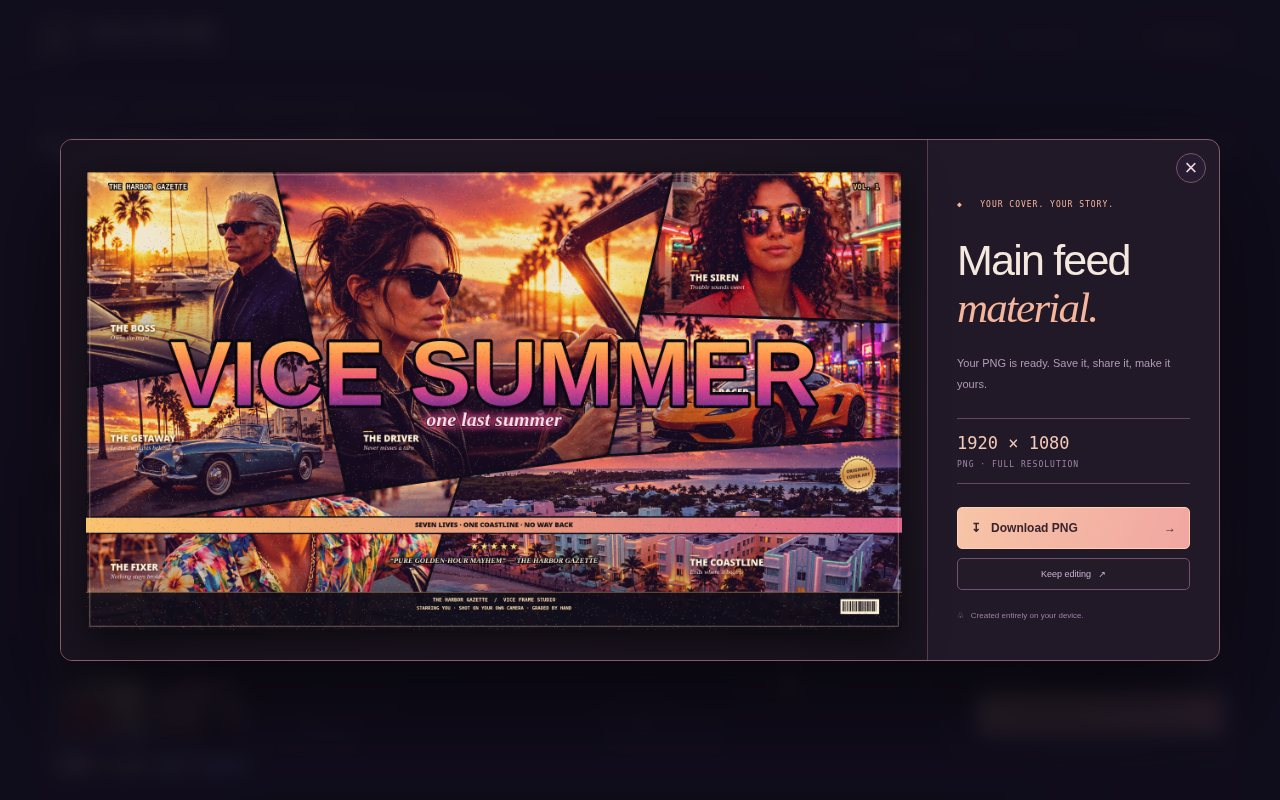
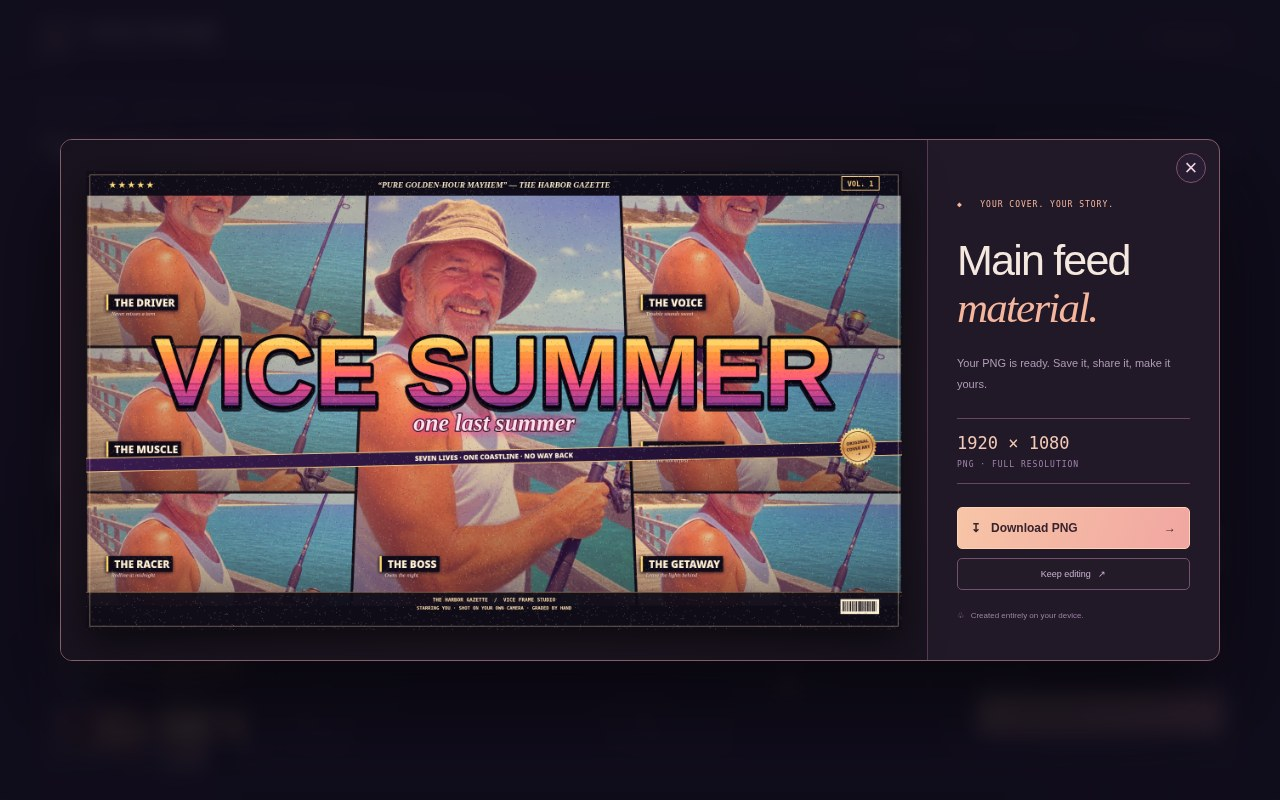
VICE FRAME v9: Showcase mosaic template, striped sunset title, top press strip, role chips, hotter golden-hour grade

diff --git a/app/src/cover.js b/app/src/cover.js
@@ -75,7 +75,7 @@ function gradePhoto(ctx, width, height, grade, strength, halftone, unit) {
         const value = pixels[p + channel];
         const saturated = luma + (value - luma) * grade.saturation;
         const contrasted = clamp((saturated - 127.5) * grade.contrast + 127.5, 0, 255);
-        pixels[p + channel] = mix(value, mix(contrasted, color[channel], .28), strength);
+        pixels[p + channel] = mix(value, mix(contrasted, color[channel], .38), strength);
       }
     }
   }
@@ -146,14 +146,17 @@ function frameCaptions(ctx, state, width, height, unit) {
     ctx.shadowColor = '#140c1c';
     ctx.shadowBlur = 8 * unit;
     ctx.shadowOffsetY = 2 * unit;
+    ctx.font = `900 ${24 * unit}px system-ui, sans-serif`;
+    const roleWidth = ctx.measureText(role).width;
+    ctx.fillStyle = 'rgba(13,9,22,.92)';
+    ctx.fillRect(x - 10 * unit, y - 28 * unit, roleWidth + 26 * unit, 37 * unit);
     ctx.fillStyle = '#ffd76a';
-    ctx.fillRect(x, y - 25 * unit, 22 * unit, 2 * unit);
-    ctx.font = `900 ${22 * unit}px system-ui, sans-serif`;
+    ctx.fillRect(x - 10 * unit, y - 28 * unit, 5 * unit, 37 * unit);
     ctx.fillStyle = cream;
-    ctx.fillText(role, x, y, limit);
-    ctx.font = `italic ${15 * unit}px Georgia, serif`;
+    ctx.fillText(role, x + 9 * unit, y, limit);
+    ctx.font = `italic ${13 * unit}px Georgia, serif`;
     ctx.fillStyle = '#ffddce';
-    ctx.fillText(sub, x, y + 19 * unit, limit);
+    ctx.fillText(sub, x + 2 * unit, y + 21 * unit, limit);
     ctx.restore();
   });
 }
@@ -169,18 +172,44 @@ function outline(ctx, text, x, y, width, weight, paint) {
 
 function title(ctx, state, width, height, unit) {
   const y = height * .51;
-  const size = Math.min(width * .162, height * .20);
-  const colors = grades.golden.colors;
+  const size = Math.min(width * .175, height * .21);
+  const stripes = ctx.canvas.ownerDocument.createElement('canvas');
+  stripes.width = 4;
+  stripes.height = Math.max(2, Math.round(size * .94));
+  const sctx = stripes.getContext('2d');
+  const bandColors = ['#fff3b0','#ffd76a','#ff9a3d','#ff7a4d','#ff5e7a','#e5488c','#a03d8f','#5f2d91'];
+  const bands = 14;
+  for (let i = 0; i < bands; i++) {
+    const position = i / (bands - 1) * (bandColors.length - 1);
+    const index = Math.min(Math.floor(position), bandColors.length - 2);
+    const from = rgb(bandColors[index]);
+    const to = rgb(bandColors[index + 1]);
+    const [r, g, b] = from.map((value, channel) => Math.round(mix(value, to[channel], position - index)));
+    sctx.fillStyle = `rgb(${r},${g},${b})`;
+    sctx.fillRect(0, i * stripes.height / bands, 4, Math.ceil(stripes.height / bands));
+    if (i >= 8) {
+      sctx.fillStyle = 'rgba(20,8,32,.55)';
+      sctx.fillRect(0, (i + 1) * stripes.height / bands - 2, 4, 2);
+    }
+  }
+
   ctx.save();
   ctx.textAlign = 'center';
+  ctx.shadowColor = 'rgba(8,4,16,.85)';
+  ctx.shadowBlur = 0;
+  ctx.shadowOffsetY = 7 * unit;
+  ctx.translate(0, y - size * .82);
+  const pattern = ctx.createPattern(stripes, 'repeat');
   ctx.font = `700 ${size}px ViceDisplay, Impact, sans-serif`;
-  outline(ctx, state.headline, width / 2, y, width * .84, 14 * unit,
-    gradient(ctx, 0, y - size * .82, 0, y + size * .10, colors));
+  outline(ctx, state.headline, width / 2, size * .82, width * .86, 16 * unit, pattern);
+  ctx.restore();
 
-  ctx.font = `italic 600 ${47 * unit}px 'Brush Script MT', 'Segoe Script', cursive`;
+  ctx.save();
+  ctx.textAlign = 'center';
+  ctx.font = `italic 600 ${56 * unit}px 'Brush Script MT', 'Segoe Script', cursive`;
   ctx.shadowColor = '#ff438f';
-  ctx.shadowBlur = 17 * unit;
-  outline(ctx, state.tagline, width / 2, y + 49 * unit, width * .64, 4 * unit, '#ffe2ee');
+  ctx.shadowBlur = 22 * unit;
+  outline(ctx, state.tagline, width / 2, y + 60 * unit, width * .66, 5 * unit, '#ffe2ee');
   ctx.restore();
 }
 
@@ -230,31 +259,50 @@ function barcode(ctx, headline, x, y, unit) {
 
 function coverLines(ctx, state, width, height, unit) {
   const margin = width * .028;
+  ctx.fillStyle = '#100d19f5';
+  ctx.fillRect(0, 0, width, 58 * unit);
+
   ctx.save();
-  ctx.font = `800 ${17 * unit}px ui-monospace, monospace`;
-  outline(ctx, state.paper.toUpperCase(), margin, 43 * unit, width * .6, 5 * unit, cream);
-  ctx.textAlign = 'right';
-  outline(ctx, 'VOL. 1', width - margin, 43 * unit, width * .15, 5 * unit, '#ffcf83');
+  ctx.textAlign = 'left';
+  ctx.font = `800 ${19 * unit}px system-ui, sans-serif`;
+  ctx.fillStyle = '#ffdc7b';
+  ctx.fillText('★ ★ ★ ★ ★', margin, 39 * unit);
   ctx.restore();
 
-  const ribbonY = height * .755;
-  const ribbonHeight = 36 * unit;
-  ctx.fillStyle = gradient(ctx, 0, 0, width, 0, ['#fbc36f', '#ec9d7b', '#dd678f']);
-  ctx.fillRect(0, ribbonY, width, ribbonHeight);
-  ctx.fillStyle = ink;
-  ctx.fillRect(0, ribbonY - 3 * unit, width, 3 * unit);
-  ctx.fillRect(0, ribbonY + ribbonHeight, width, 3 * unit);
   ctx.save();
   ctx.textAlign = 'center';
-  ctx.font = `900 ${16 * unit}px system-ui, sans-serif`;
-  ctx.fillText(state.strip, width / 2, ribbonY + 23 * unit, width * .91);
-  ctx.font = `700 ${20 * unit}px system-ui, sans-serif`;
-  outline(ctx, '★ ★ ★ ★ ★', width / 2, height * .824, width * .44, 3 * unit, '#ffdc7b');
-  ctx.font = `italic 700 ${17 * unit}px Georgia, serif`;
-  outline(ctx, state.quote, width / 2, height * .854, width * .47, 4 * unit, cream);
+  ctx.font = `italic 700 ${19 * unit}px Georgia, serif`;
+  outline(ctx, state.quote, width / 2, 39 * unit, width * .54, 4 * unit, cream);
   ctx.restore();
 
-  seal(ctx, width - margin - 50 * unit, height * .66, unit);
+  ctx.save();
+  ctx.strokeStyle = '#ffcf83';
+  ctx.lineWidth = 2 * unit;
+  ctx.strokeRect(width - margin - 88 * unit, 13 * unit, 88 * unit, 32 * unit);
+  ctx.textAlign = 'center';
+  ctx.font = `800 ${17 * unit}px ui-monospace, monospace`;
+  outline(ctx, 'VOL. 1', width - margin - 44 * unit, 36 * unit, 88 * unit, 3 * unit, '#ffcf83');
+  ctx.restore();
+
+  const titleSize = Math.min(width * .175, height * .21);
+  const ribbonY = height * .51 + titleSize * .46;
+  const ribbonHeight = 34 * unit;
+  ctx.save();
+  ctx.translate(width / 2, ribbonY + ribbonHeight / 2);
+  ctx.rotate(-.021);
+  ctx.translate(-width / 2, -(ribbonY + ribbonHeight / 2));
+  ctx.fillStyle = gradient(ctx, 0, 0, width, 0, ['#3a1c50', '#1c0e2e']);
+  ctx.fillRect(0, ribbonY, width, ribbonHeight);
+  ctx.fillStyle = '#ffcf83';
+  ctx.fillRect(0, ribbonY, width, 2 * unit);
+  ctx.fillRect(0, ribbonY + ribbonHeight - 2 * unit, width, 2 * unit);
+  ctx.textAlign = 'center';
+  ctx.font = `900 ${16 * unit}px system-ui, sans-serif`;
+  ctx.fillStyle = cream;
+  ctx.fillText(state.strip, width / 2, ribbonY + 23 * unit, width * .91);
+  ctx.restore();
+
+  seal(ctx, width - margin - 50 * unit, height * .60, unit);
   const foot = height * .917;
   ctx.fillStyle = '#100d19ef';
   ctx.fillRect(0, foot, width, height - foot);
@@ -288,6 +336,20 @@ function filmGrain(ctx, width, height, unit, opacity) {
   ctx.restore();
 }
 
+function glowVignette(ctx, width, height) {
+  const warm = ctx.createRadialGradient(width * .16, height * .04, 0, width * .16, height * .04, width * .55);
+  warm.addColorStop(0, 'rgba(255,166,77,.13)');
+  warm.addColorStop(1, 'rgba(255,166,77,0)');
+  ctx.fillStyle = warm;
+  ctx.fillRect(0, 0, width, height);
+
+  const shade = ctx.createRadialGradient(width * .5, height * .44, Math.min(width, height) * .38, width * .5, height * .44, Math.max(width, height) * .78);
+  shade.addColorStop(0, 'rgba(14,6,24,0)');
+  shade.addColorStop(1, 'rgba(14,6,24,.36)');
+  ctx.fillStyle = shade;
+  ctx.fillRect(0, 0, width, height);
+}
+
 export function drawCover(ctx, state, assets) {
   const { width, height } = ctx.canvas;
   const unit = Math.min(width, height) / 1080;
@@ -297,6 +359,7 @@ export function drawCover(ctx, state, assets) {
   ctx.fillStyle = ink;
   ctx.fillRect(0, 0, width, height);
   drawFrames(ctx, state, assets, width, height, unit, grade);
+  glowVignette(ctx, width, height);
   frameCaptions(ctx, state, width, height, unit);
   title(ctx, state, width, height, unit);
   coverLines(ctx, state, width, height, unit);

diff --git a/app/src/templates.js b/app/src/templates.js
@@ -21,7 +21,7 @@ export const samples = [
 export const grades = {
   golden: {
     name: 'Golden Hour', colors: ['#ffd76a', '#ff8f4d', '#e5488c', '#5f2d91'],
-    contrast: 1.30, saturation: 1.35, grain: .22,
+    contrast: 1.34, saturation: 1.50, grain: .22,
   },
   print: {
     name: 'Poster Print', colors: ['#fff1bc', '#f19b77', '#bc4477', '#352246'],
@@ -35,6 +35,19 @@ function panel(role, sub, points, label) {
 
 // Neighboring panels share vertices so the divider is continuous at every aspect.
 export const templates = {
+  showcase: {
+    name: 'Showcase', note: 'A leading portrait with three scenes stacked on each side.',
+    demo: ['boss', 'driver', 'man', 'racer', 'portrait', 'lifeguard', 'car'],
+    panels: [
+      panel('THE BOSS', 'Owns the night', [[.345,.05],[.655,.05],[.675,.95],[.325,.95]], [.365,.865]),
+      panel('THE DRIVER', 'Never misses a turn', [[0,.05],[.345,.05],[.338,.383],[0,.383]], [.03,.295]),
+      panel('THE MUSCLE', 'Settles every score', [[0,.383],[.338,.383],[.331,.70],[0,.70]], [.03,.615]),
+      panel('THE RACER', 'Redline at midnight', [[0,.70],[.331,.70],[.325,.95],[0,.95]], [.03,.865]),
+      panel('THE SIREN', 'Trouble sounds sweet', [[.655,.05],[1,.05],[1,.383],[.662,.383]], [.685,.295]),
+      panel('THE LOOKOUT', 'Sees the storm first', [[.662,.383],[1,.383],[1,.70],[.669,.70]], [.685,.565]),
+      panel('THE GETAWAY', 'Leave the lights behind', [[.669,.70],[1,.70],[1,.95],[.675,.95]], [.685,.865]),
+    ],
+  },
   ensemble: {
     name: 'Ensemble', note: 'One leading frame and six supporting scenes cut on the diagonal.',
     demo: ['driver', 'boss', 'car', 'portrait', 'racer', 'man', 'beach'],

diff --git a/app/src/main.js b/app/src/main.js
@@ -21,9 +21,9 @@ function makePanels(template, previous = []) {
 }
 
 let state = {
-  template: 'ensemble', grade: 'golden', size: 'wide', active: 0,
-  photo: null, uploads: [], panels: makePanels(templates.ensemble),
-  intensity: 85, grain: true, halftone: true,
+  template: 'showcase', grade: 'golden', size: 'wide', active: 0,
+  photo: null, uploads: [], panels: makePanels(templates.showcase),
+  intensity: 100, grain: true, halftone: true,
   headline: 'VICE SUMMER', tagline: 'one last summer',
   strip: 'SEVEN LIVES · ONE COASTLINE · NO WAY BACK',
   quote: '“PURE GOLDEN-HOUR MAYHEM” — THE HARBOR GAZETTE',
